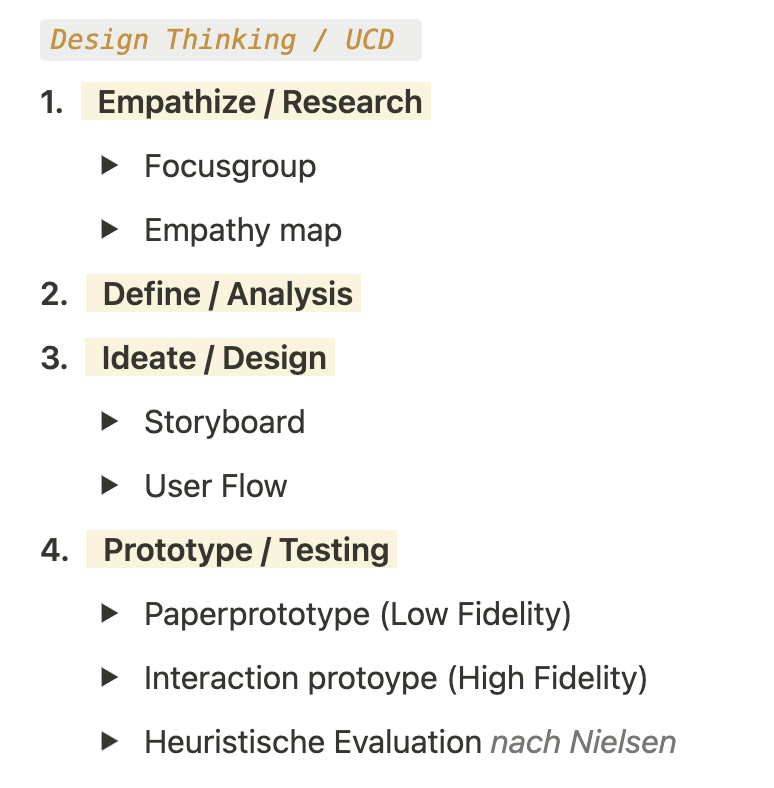
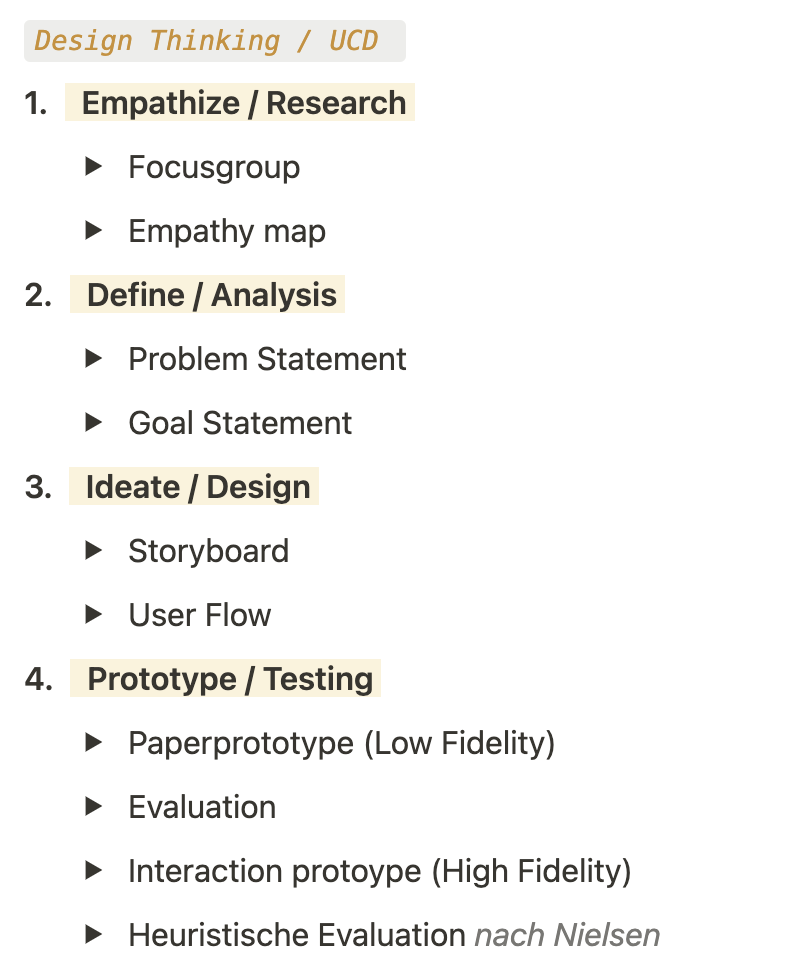
edit some ux projects

diff --git a/src/components/portfolio/PortfolioTwo.vue b/src/components/portfolio/PortfolioTwo.vue
@@ -78,7 +78,7 @@
                 text-align: center;  justify-content: center; align-items: center;"
                   >
                   <div id="ar-xr-tab" class="custom-post-title">UX Project - App (Food4me)</div>
-                  <div>open to see my methods and results.</div></div>
+                  <div>to achieve long-term healthy nutrition</div></div>
    
           </li>
 
@@ -97,7 +97,7 @@
                   text-align: center;  justify-content: center; align-items: center;"
                     >
                     <div class="custom-post-title">UX Project - App (virtual Garden)</div>
-                    <div>open to see my methods and results.</div></div>
+                    <div>to understand the impact of behavior on climate change <br>and how to improve it</div></div>
         
           </li>
 
@@ -116,7 +116,7 @@
                   text-align: center;  justify-content: center; align-items: center;"
                     >
                     <div class="custom-post-title">UX Project - App (Tattoo)</div>
-                    <div>open to see my methods and results.</div></div>
+                    <div>to find the right tattoo artist and easily manage everything</div></div>
            
           </li>
 
@@ -134,7 +134,7 @@
                   text-align: center;  justify-content: center; align-items: center;"
                     >
                     <div class="custom-post-title">UX Project - App (ARestaurant)</div>
-                    <div>open to see my methods and results.</div></div>
+                    <div>to make the right meal decision that leaves you satisfied</div></div>
 
           </li>
 
@@ -379,9 +379,21 @@
                       <img src="../../assets/img/_/text-info/food4me_info_green.png" style="display: block; margin: 0 auto; width: 90%;">
 <!--     ____      --><br><div style="border-bottom: 1px solid; color: black; width: 100%;"></div><br>
   <div class="description" style="color: black; font-size: 1.4em; text-decoration: underline; font-weight: bold;">Process</div>
-                      <img src="../../assets/img/_/text-overview/overview_food4me.png" style="width: 50%">
+                      <img src="../../assets/img/_/text-overview/overview_food4me.png" style="width: 40%">
                     <br>
-                  
+                 
+                    <br><div style="border-bottom: 1px solid; color: black; width: 100%;"></div><br> 
+                    
+
+                      
+                        <br>
+                          <h6>
+                            Secondary Research 
+                          </h6><br>
+                          <p>
+                            As first step i did some research which results you can read detailed in my <a href="">Bachelorthesis</a>.
+                          </p>
+                          <br>
                   
  <!--     ____      --><br><div style="border-bottom: 1px solid; color: black; width: 100%;"></div><br> 
                     
@@ -598,7 +610,7 @@
                                 Focusgroup 
                               </h6><br>
                               <p>
-                                Conducting a focus group allowed me to gather insights on the target audience's behavior and attitudes towards environmental impact. I was able to identify pain points and opportunities to motivate individuals to change their behavior using the augmented reality app.
+                                Conducting a focus group allowed me to gather insights on the target audience's behavior and attitudes towards environmental impact. I was able to identify pain points and opportunities to motivate individuals to change their behavior using the augmented reality app. See all the data in my <a href="">Excel Sheet</a>. 
                               </p>
                               <br>                
    <!--     ____      --><br><div style="border-bottom: 1px solid; color: black; width: 100%;"></div><br> 
@@ -617,6 +629,35 @@
                 <img src="../../assets/img/_/ux/virtual Garden - Empathy Map.png" style="display: block; margin: 0 auto; width: 90%;">
                 
               <br>
+
+               <!--     ____      --><br><div style="border-bottom: 1px solid; color: black; width: 100%;"></div><br> 
+                
+        
+
+               
+                              <br>
+                              <h6>
+                                Problem Statement 
+                              </h6><br>
+                              <p>
+                               People require a user-friendly solution that allows them to easily understand their behaviours climate change impact as well as inspiration how to easy change to similar changes. This is crucial in order to avoid making decisions which are bad for the enviroment and not having the conscious decision to choose a better choice for the climate.
+                              </p>
+                              <br>                
+
+                               <!--     ____      --><br><div style="border-bottom: 1px solid; color: black; width: 100%;"></div><br> 
+                
+                 
+
+               
+                                <br>
+                                <h6>
+                                  Goal Statement 
+                                </h6><br>
+                                <p>
+                                  The App will let users show them visualy how their behaviour change the climate to the bad which will help to understand their impact and get Ideas how to change easy to better decisions for the climate.
+                                </p>
+                                <br>                
+
                <!--     ____      --><br><div style="border-bottom: 1px solid; color: black; width: 100%;"></div><br> 
               <br>
                 <h6>
@@ -689,7 +730,7 @@
    
                      <br>
                       <h6>
-                      Evaluation
+                      Evaluation 
                       </h6><br>
                     <p>
                       Through testing a paper prototype with 5 individuals, I was able to identify usability issues and make improvements to the design. Feedback was used to refine the design, ensuring that the augmented reality app is easy to use and visually appealing.
@@ -868,39 +909,104 @@
     <br> 
                           <img src="../../assets/img/_/text-overview/overview_tattooapp.png" style="width: 30%">
                         <br>
+                       <!--     ____      --><br><div style="border-bottom: 1px solid; color: black; width: 100%;"></div><br> 
+                    <br>
+                        <h6>
+                        User Interviews
+                        </h6><br>
+                      <p>
+  To start my project which getting data and understanding the needs of potential users, i conducted user interviews with 7 individuals who expressed interest in getting a tattoo. These interviews provided valuable insights into their needs, preferences, and expectations regarding tattoo services. The feedback gathered from these interviews has been pivotal in shaping the design and features of the app to cater to the unique requirements of the personas I have developed.</p>
+                      <br> 
                       
-                      
-     <!--     ____      --><br><div style="border-bottom: 1px solid; color: black; width: 100%;"></div><br> 
-                  
+      <!--     ____      --><br><div style="border-bottom: 1px solid; color: black; width: 100%;"></div><br> 
+                  <br>
+                      <h6>
+                      Personas
+                      </h6><br>
+                    <p>Through my collected insight i have identified three primary user groups. These personas served as a foundation for developing user-centered design solutions that meet the needs of all groups.</p>
+                    <br> 
+                
 
-              
-                <br><br>
-                <p>First i conducted research and identified three primary user groups for the app. These personas served as a foundation for developing user-centered design solutions that meet the needs of both groups.</p>
-  <br>
-                <img src="../../assets/img/_/ux/Tattoo App - Persona 1.png" width="80%" style="display: block; margin: auto">
-                <img src="../../assets/img/_/ux/Tattoo App - Persona 2.png" width="80%" style="display: block; margin: auto">
-                <img src="../../assets/img/_/ux/Tattoo App - Persona 3.png" width="80%" style="display: block; margin: auto">
+                    
+                <img src="../../assets/img/_/ux/Tattoo App - Persona 1.png" width="90%" style="display: block; margin: auto">
+                <img src="../../assets/img/_/ux/Tattoo App - Persona 2.png" width="90%" style="display: block; margin: auto">
+                <img src="../../assets/img/_/ux/Tattoo App - Persona 3.png" width="90%" style="display: block; margin: auto">
                 <br>
 
-                <p>To better understand the emotions, thoughts, and behaviors of our users, I created an empathy map. This helped me understand the users' needs and the barriers they face when seeking a tattoo artist. By using the empathy map, I was able to identify the users' pain points and develop solutions to overcome them.</p>
+                 <!--     ____      --><br><div style="border-bottom: 1px solid; color: black; width: 100%;"></div><br> 
+                    <br>
+                        <h6>
+                        Empathy Map
+                        </h6><br>
+                      <p>To better understand the emotions, thoughts, and behaviors of all different types of users, I created an empathy map. This helped me understand the users' needs and the barriers they face when seeking a tattoo artist. By using the empathy map, I was able to identify the users' pain points and develop solutions to overcome them.</p>
+                      <br> 
+              
+
+               
                 
                 <br>
                 <img src="../../assets/img/_/ux/Tattoo App - Empathy Map.png" width="95%" style="display: block; margin: auto">
                 <br>
 
-                <p>To create a visual representation of the user's journey, I developed a storyboard. This helped me visualize the user's experience with the app from start to finish. By creating a storyboard, I was able to identify potential usability issues and design solutions to improve the user experience</p>
+                 <!--     ____      --><br><div style="border-bottom: 1px solid; color: black; width: 100%;"></div><br> 
+                      <br><h6>
+                            User Stories
+                            </h6><br>
+                      
+                
+        
+               
 
+
+<ul  style="list-style-type:disc;">
+  <li>As a user looking for a tattoo, I want to be able to search for tattoo artists based on their specific tattoo style, so I can find an artist whose work aligns with my desired aesthetic.</li>
+
+  <li>As a user wanting a tattoo, I want to be able to locate tattoo artists near my current location, allowing me to find artists conveniently and reduce travel time.</li>
+
+  <li>As a user seeking a tattoo, I want to be able to view the availability of tattoo artists and book appointments directly through the app, making it easier to secure a time slot that works for both me and the artist.</li>
+
+  <li>As a user exploring tattoo options, I want to be able to browse through a tattoo artist's portfolio, viewing their previous work and gaining confidence in their artistic abilities.</li>
+
+ <li> As a user interested in getting a tattoo, I want to be able to read and leave reviews for tattoo artists, enabling me to make informed decisions and choose the right artist for my needs.</li>
+
+  <li>As a user scheduling a tattoo, I want to be able to communicate with the chosen tattoo artist through the app, exchanging drawings, discussing details, and organizing all necessary information in one central place.</li>
+  </ul>
+  <br>
+   <!--     ____      --><br><div style="border-bottom: 1px solid; color: black; width: 100%;"></div><br> 
+
+                          <h6>
+                          Storyboard
+                          </h6><br>
+                      <p>To create a visual representation of the user's journey, I developed a storyboard. This helped me visualize the user's experience with the app from start to finish. By creating a storyboard, I was able to identify potential usability issues and design solutions to improve the user experience</p>
+
+                        
+               
                 <br>
-                <img src="../../assets/img/_/ux/Tattoo App - Storyboard.png" width="80%" style="display: block; margin: auto">
+                <img src="../../assets/img/_/ux/Tattoo App - Storyboard.png" width="90%" style="display: block; margin: auto">
                 <br>
 
-                <p>To create a seamless user experience, I developed a user flow that shows the user's path through the app. This user flow helped me identify areas of the app where the user may get lost or confused. By analyzing the user flow, I was able to make design decisions that guide the user and improve the overall experience.</p>
+                 <!--     ____      --><br><div style="border-bottom: 1px solid; color: black; width: 100%;"></div><br> 
+                      <br>
+                          <h6>
+                          User Flow
+                          </h6><br>
+                      <p>To create a seamless user experience, I developed a user flow that shows the user's path through the app. This user flow helped me identify areas of the app where the user may get lost or confused. By analyzing the user flow, I was able to make design decisions that guide the user and improve the overall experience.</p>
+                        <br>     
                 
                 <br>
                 <img src="../../assets/img/_/ux/Tattoo App - User Flow.png" width="100%" style="display: block; margin: auto">
                 <br>
+   <!--     ____      --><br><div style="border-bottom: 1px solid; color: black; width: 100%;"></div><br> 
+                      <br>
+                          <h6>
+                          Wireframes
+                          </h6><br>
+                     
+                        <p>Following some Wireframes. But here a just some impressions. As the Project is still in progress...</p>
+                        <br>
 
-                <p>In conclusion, the app design project involved employing several UX design methods, including personas, empathy maps, storyboards, and user flows. By using these methods, I was able to create a user-centered design that meets the needs of both first-time tattoo seekers and experienced tattoo enthusiasts. I believe that the app will provide a convenient and enjoyable experience for users seeking to find a suitable tattoo artist.</p>
+  <img src="../../assets/img/_/ux/Tattoo App - Wireframes.png" width="100%" style="display: block; margin: auto">
+               <!--      <p>In conclusion, the app design project involved employing several UX design methods, including personas, empathy maps, storyboards, and user flows. By using these methods, I was able to create a user-centered design that meets the needs of both first-time tattoo seekers and experienced tattoo enthusiasts. I believe that the app will provide a convenient and enjoyable experience for users seeking to find a suitable tattoo artist.</p>    -->
     
                 <br>
               
@@ -1020,6 +1126,28 @@
                        </i> </p>
                       <br>
 
+                      <!--     ____      --><br><div style="border-bottom: 1px solid; color: black; width: 100%;"></div><br>
+
+                    <br>  
+                      <h6>
+                        User Stories
+                      </h6> <br>
+
+                      <p> 
+                        <ul style="  list-style-type: disc;">
+                        <li>As a restaurant guest, I want to be able to see a 3D model of each dish on the menu card using augmented reality (AR), in order to have a better idea of the presentation and appearance of the dish.</li>
+ 
+                            <li> As a restaurant guest, I want the option to directly order the selected dish from the AR view through the app, to make the ordering process convenient and seamless.</li>
+                               
+                            <li> As a restaurant guest, I want to be able to make specific modifications to a dish by adding or removing ingredients or providing special preparation instructions while viewing the 3D model in the AR view, in order to customize my dish according to my specific preferences.</li>
+                                </ul>
+                        
+
+                        </p>
+                  <br>
+                
+
+          
                         <!--     ____      --><br><div style="border-bottom: 1px solid; color: black; width: 100%;"></div><br>
 
                   <br>  
